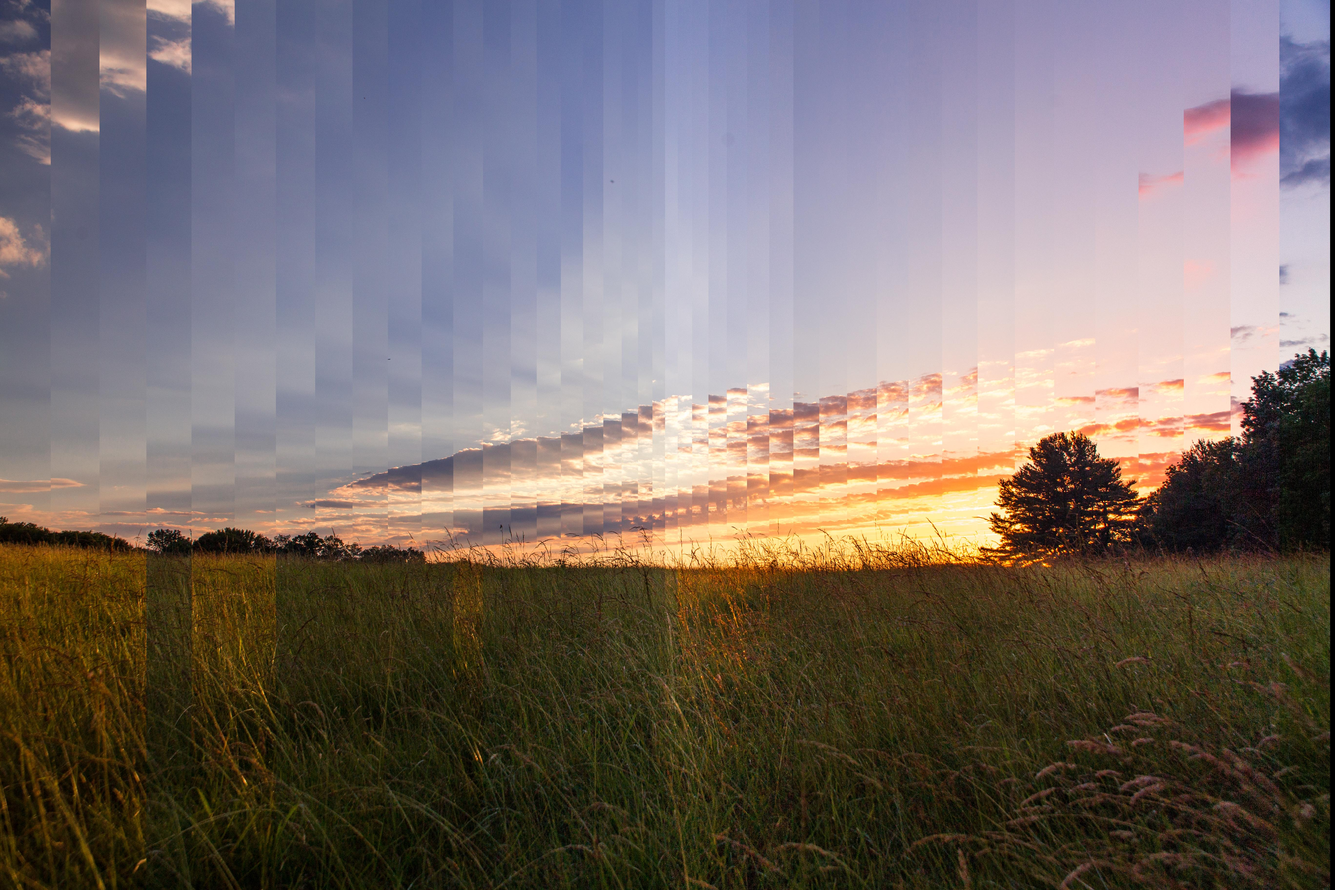
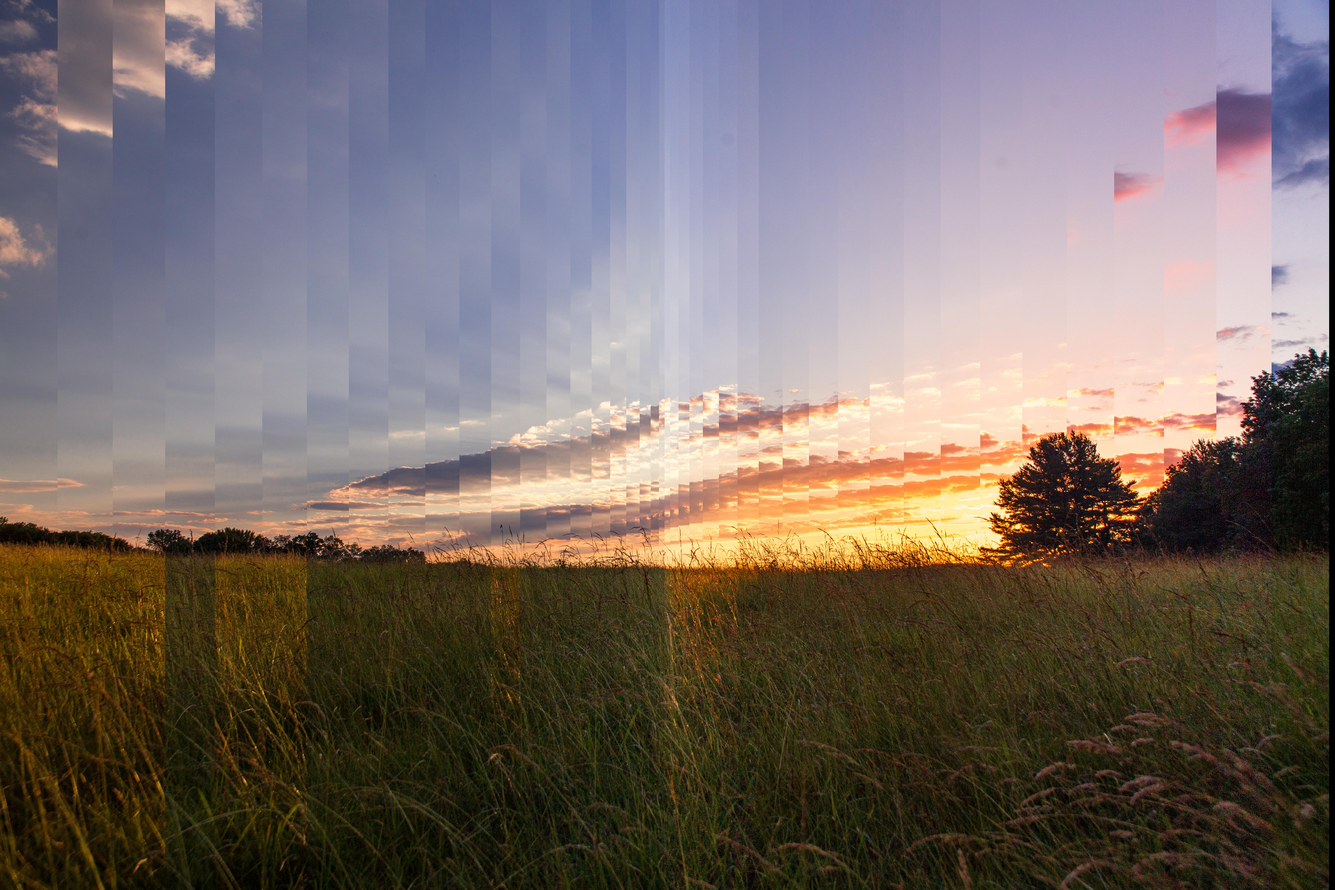
Changed params to try to get better example

diff --git a/main.py b/main.py
@@ -6,8 +6,8 @@ img_ext = ".jpg"
 slicer = Slicer(dir_name, img_ext, "simple", False)
 slicer.slice()
 
-convex_slicer = Slicer(dir_name, img_ext, "convex", False, 4)
+convex_slicer = Slicer(dir_name, img_ext, "convex", False, 10)
 convex_slicer.slice()
 
-concave_slicer = Slicer(dir_name, img_ext, "concave", False, 4)
+concave_slicer = Slicer(dir_name, img_ext, "concave", False, 10)
 concave_slicer.slice()
